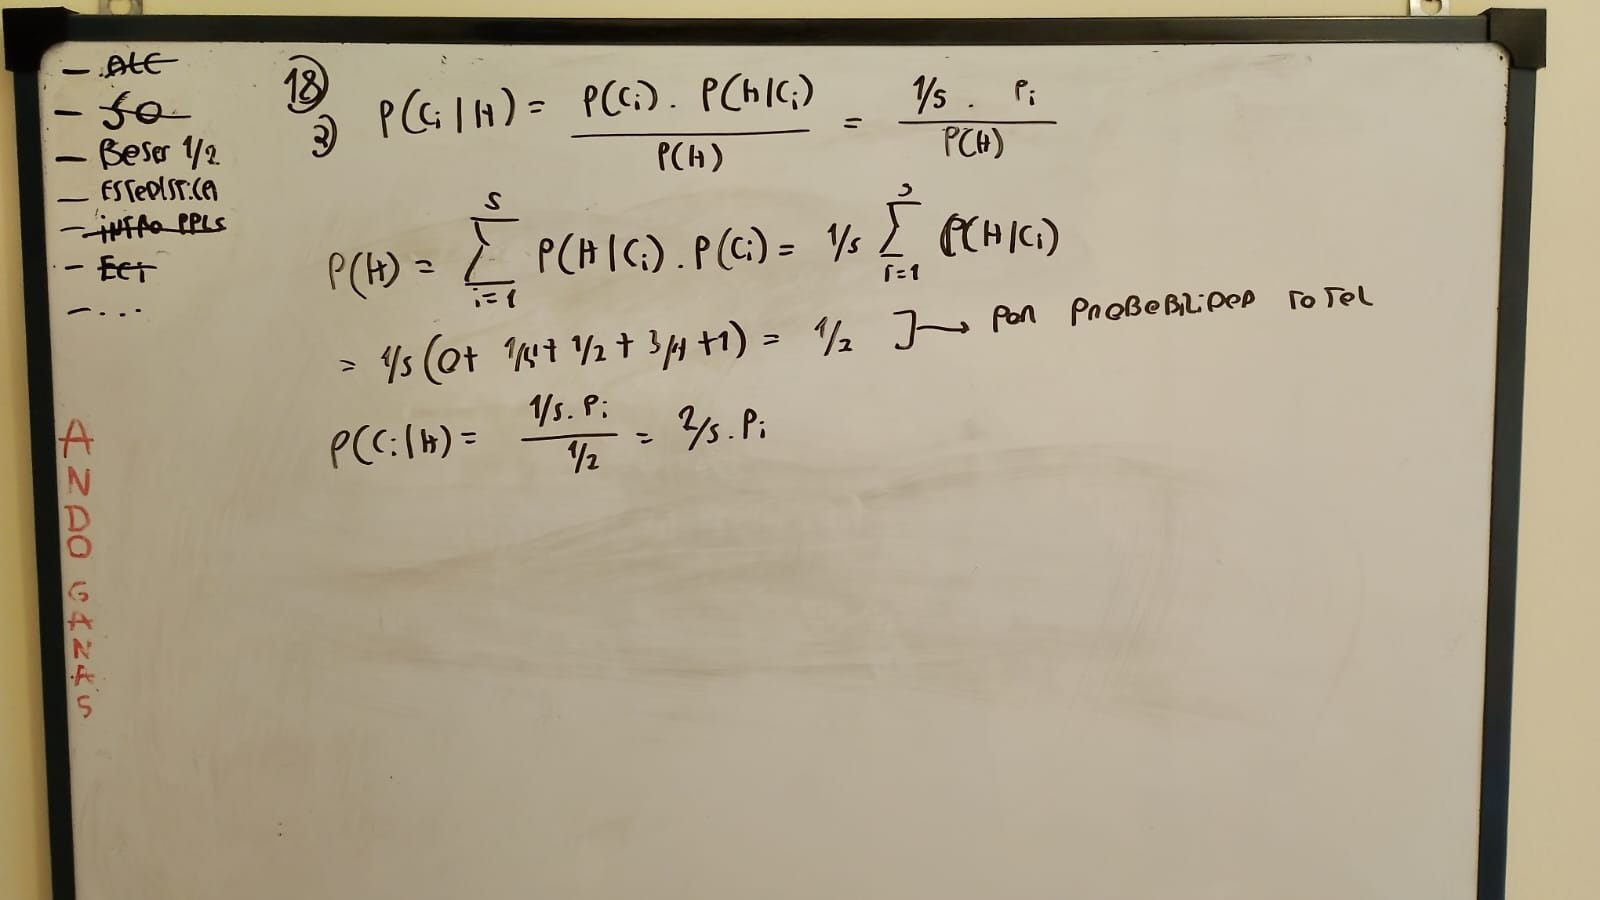
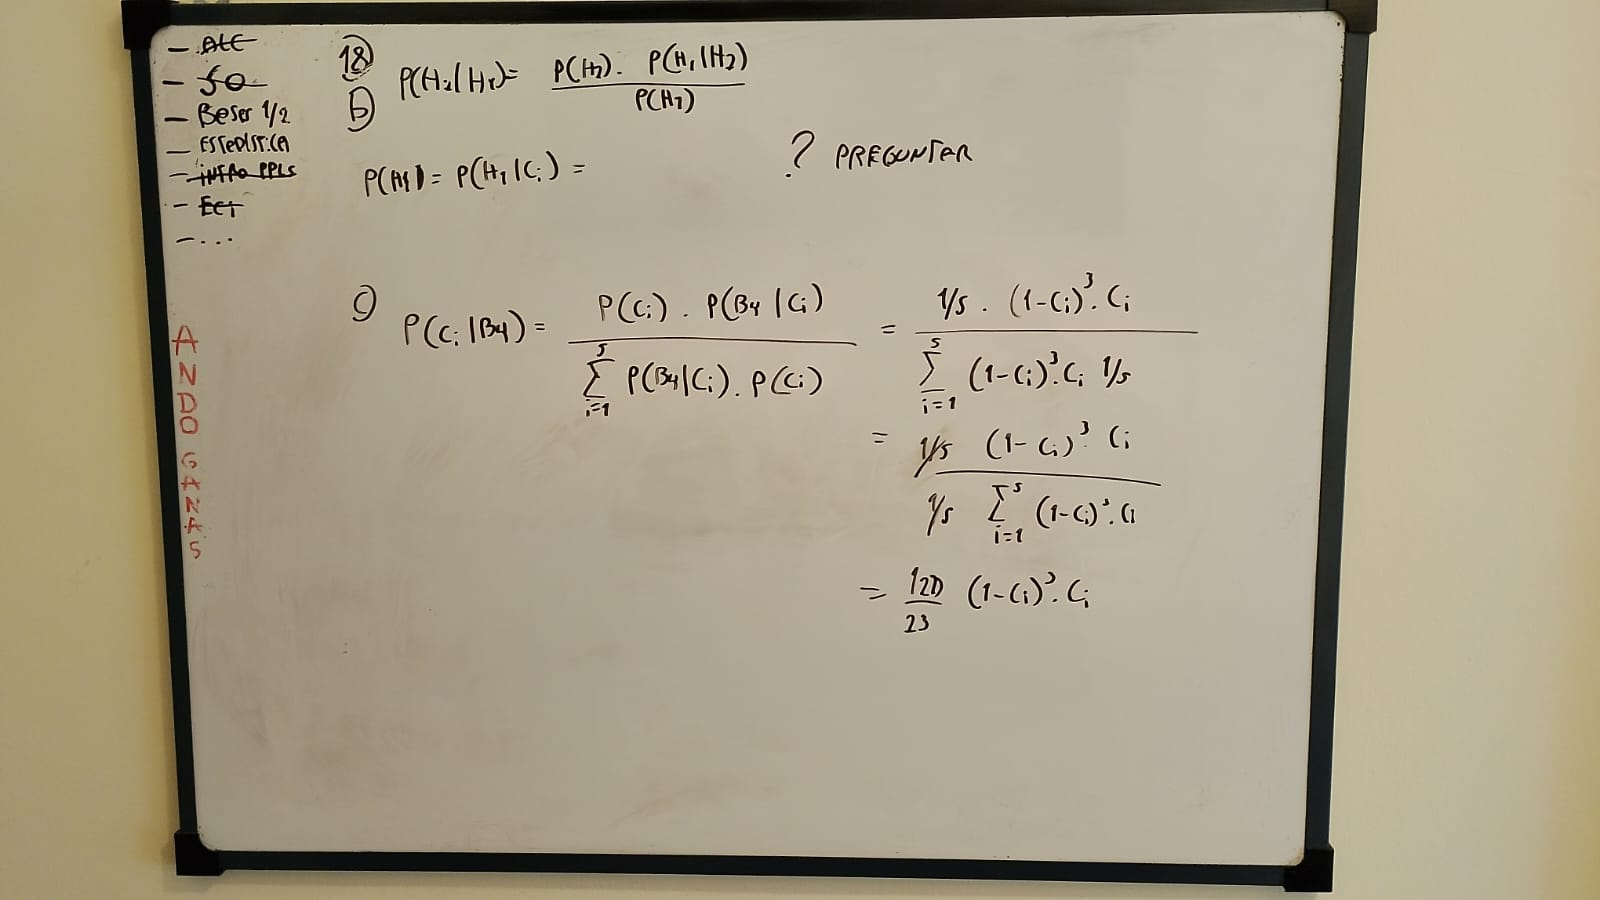
Notas claes 3

diff --git a/Guias/Resoluciones/Guia-1/simulaciones/ej-26.py b/Guias/Resoluciones/Guia-1/simulaciones/ej-26.py
@@ -2,6 +2,8 @@ import random
 import numpy as np
 import matplotlib.pyplot as plt
 
+# Importante: tener en cuenta la seed a la hora de generar valores random
+
 p = 0.03
 n = 100000
 

diff --git a/Clases/Clase-4.md b/Clases/Clase-4.md
@@ -1,0 +1,43 @@
+# CLASE-4
+## NOTAS
+### MAS DE LA CLASE PASADA
+- Varianza: es el valor medio de las distancias cuadraticas al valor medio. 
+
+- TEO 2.3.4: Supongamos que $X$ es variable aleatoria con varianza finita (Esto implica que el valor esperado de esa funcion cuadratica me da algo) entonces la varianza de $VAR(aX + B) = a^{2} * VAR(X)$ con a y b constantes. Sumarle un valor constante no agrega nada, pero si multiplicar. 
+
+### CONSTRUCCION DE DE DISTRIBUCIONES COMUNES
+### DISTRIBUCIONES DISCRETAS
+**UNIFORME:** $X \sim U(1,N)$ si $P(X=x|N) = \frac{1}{n}$ donde x vale desde el 1 hasta el N. Cual seria el valor esperado de X? Sabemos que $E(X)$ es la suma de todos los posibles valores de la variable por su probabilidad, $E(X) = \sum_{x}^{} x * P(X = x|N)$. Esto a la larga dada el promedio, por que cadad valor es equiprbable. Si la probabilida de cada uno sea distinto, el peso es deistinto para cad numero, y eso por la definicion de $E(X)$ modifca el valor dado. Luego en esta distribucion $E(X) = \frac{N(N+1)}{2} $
+
+A su vez tenemos que: $VAR(X) = \frac{(N+1)(N-1)}{12}$
+
+**DISTRIBUCION DE BERNOULLI:** $x \sim Bernoulli(p)$ si $X$ vale 1 con probabilidad p y $X$ vale 0 con probabilidad (1-p), donde $0 <= p <= 1$. Luego tengo que $E(X) = p$, si lo pensas solo tengo dos valores, 0 o 1, luego si usamos la foumla de esperanza da exactamente p. 
+Ademas tenemos que $VAR(X) = p(1-p)$ 
+
+**BINOMIAL:** Supongamos un experimento con $N$ ensayos de bernoulli independientes, Definamos la variable $Y = numero de exitos en N ensayos$ , luego $Y \sim Binomial(N,p)$ si $P(Y = y |N,p) = \binom{n}{y} *p^{n}*(1-p)^{n-y}$. Se lee como la cantidad de formas que tengo de elegir mis y exitos sobre n, por la porbabiliad de que y sean exitos, por la porbabilidad de que el resto no sea un exito. 
+Luego $E(X) = n*p$, mas o menos se esperand tener n exitos y sobre esos la probabialida es p. Adenmas, $VAR(X) = p*(1-p)$
+
+Ej:
+- Tiramos un dado 4 veces. Calculemos la probabiliad de obtener al menos un 6. Cada tirada lo puedo representar con bernoulli, donde la probabilida de sacar un 6 es $\frac{1}{6}$, tal que todo lo que no quiero obtener esta fuera de eso. De esta forme defino $X = numero de 6s en cuatro tiradas de un dado$, con esto ya se que $X \sim Binomial(4,\frac{1}{6})$. Luego se puede pensar por el complemento $P(por lo menos un 6) = P(X > 0) = 1 - P(X = 0)$.
+Luego tenemos que $P(X > 0) = 1 - \binom{4}{0}*(\frac{1}{6})^{0}*(\frac{5}{4})^{4} = 0,518$
+
+**DISTRIBUCION DE POISSON:** Si se define un intervalo fijo de tiempo, el numero de evento independientes que ocurren con una misma tasa y son independients siguen esta distribucion. $X \sim Poisson(\lambda)$ si $P(X = x|\lambda) = \frac{e^{-x}*\lambda^{x}}{x!}$. Donde $\lambda$ es la tasa por unidad de tiempo de que ocurra un evento. Luego tenemos que $E(X) = VAR(X) = \lambda$
+
+EJ:
+- Tiempo de espera. Supongamos un operador telefonico que en promedio responde/le entran (Sinifica que le ingresan y tiene que responder) 5 llamadas cada 3 minutos. Cual es la probabilidad de que no haya llamadas en el proximo minuto? Supongamos $X 0 Numero de llamada en un minuto$. luego por lo que vimos antes, podemos decir que $X \sim Poisson(\frac{5}{3})$. Una vez que modelo, lo peor ya paso, el calculo podria ser facil pero una vez que tengo la distribucion la probabilidad es sencilla. La probabiliad del eveneot no llamadas, le vamos a poner A es $P(A) = P(X = 0) = \frac{e^{-\frac{5}{3}}*\frac{5}{3}⁰}{0!} = 0,189$.
+Luego cual seria la probabilidad de por lo menos llamdas en el porximo minuto? $P( X > = 2) = 1 - (P(X = 0) + P(X = 1))$, sale mejor por el complemento. 
+
+**DISTRIBUCION DE GEOMETRICA:** Tengo $X = numero de ensayos de bernoulli hasta el primer exito $X \sim Geometrica(p)$ si  $P(X = x|p) = (1-p)^{x-1}* p$, que es la probabilida de $x -1$ casos sin exito, por p que es el caso final donde si tengo exito. $E(X) = \frac{1}{p}$ y $VAR(X) = \frac{1-p}{p^{2}}$. Una propiedad importante de esta distribucion es que no posee memoria, esto se debe a que cumple que:
+- $P(X > s| X > t) = P(X > s-t)$. Dado que espere t evento, la propiedad de esperar s eventos, donde s > t, es igual a la porbabildad de esperar esos eventos adicionales desde el comienzo. No importa donde empezas, la probabilidad es igual. 
+La probabilidad de obtener una frecuencia de fracasos no depende de la posicion de la tira, solo del largo de la secuencia. 
+
+**DISTRIBUCION HIPERGEOMETRICA:** Supongamos que tenes una urna con $N$ bolitas identicas salvo que $M$ de ellas son rojas y $N-M$ son verdes, seleccion $K$ al azar (Sin reposicion). Defino $X = numero de bolas rojas en la muestra de k bolitas, luego $X \sim Hiper(N,M,K)$ si $P(X = x|N,M,K) = \frac{\binom{M}{x}*\binom{N-M}{K-x}}{\binom{N}{K}}$. $E(X) = \frac{K*M}{N}$ y $VAR(X) \frac{(KM)}{N} * \frac{(N-M)*(N-K)}{N(N-1)}$
+
+EJ:
+- Supongamos un negocio compra objetos por lote y cada objeto puede ser aceptable o defectuoso. Digamos que $N = Tamaño del lote$, donde $M = el numero de defectusos$ Y $N-M = el numero de objetos aceptables$. Calculemos la probabilidad de que eligiendo $K$ objetos, haya $X$ defectuosos. En estos enunciados ya dice el modelado, supongamos que el lote es de 25, luego el numero de defectuosos es 6 y elijo 10, entonces la probabilida de que no haya ninguno, es $P(X = 0) = \frac{\binom{6}{0}*\binom{19}{10}}{\binom{25}{10}}$
+
+Esto se suele utilizar para establecer muestras de poblaciones grandes, puedo plantera como cuantos debo agarrar para sersiorar que un experimento de verdad esta bien. Esto me da un grado de confinza de la cantidad de cosas que podria analizar en base a eso. En ese caso el valor $k$ es la incognita (Esto ya es un problem de inferencia).
+
+### RELACIONES DE RECURRENCIA
+- Si $X \sim Poisson(\lambda)$ entonces $P(X = x) = \frac{\lambda}{x}* P(X = x-1)$
+- Si $Y \sim Binomial(N,p)$ entonces $P(Y = y) = \frac{N - y +1}{y} * \frac{p}{1-p} * p$
